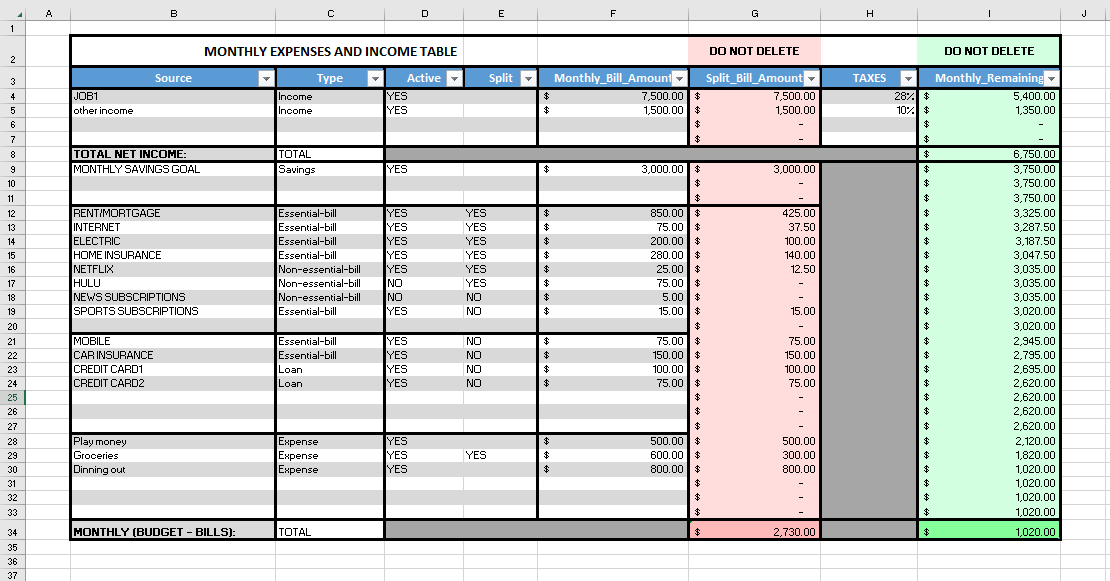
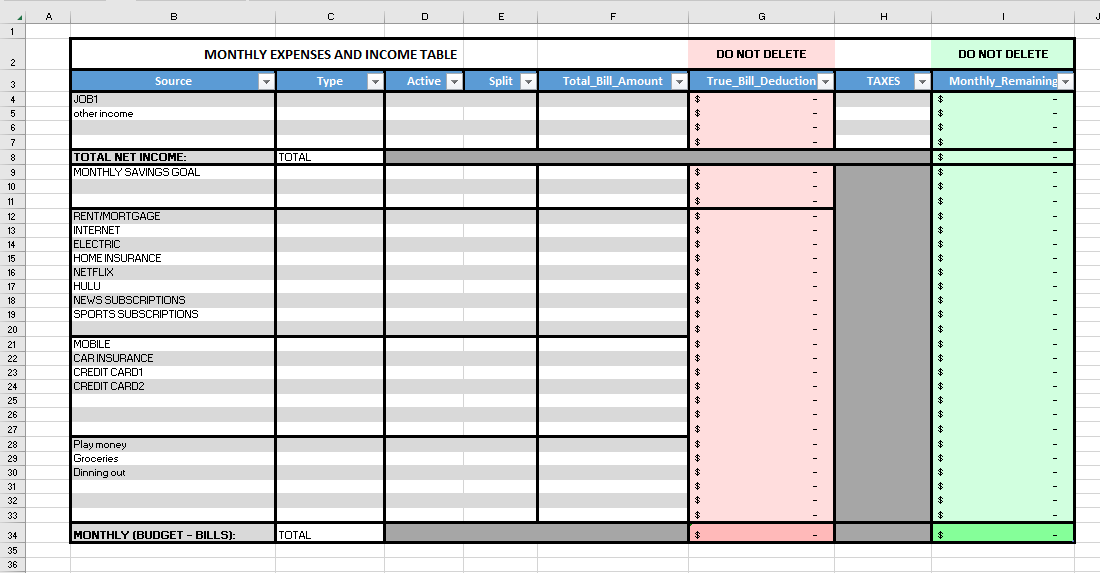
Updated chart and readme

diff --git a/readme.md b/readme.md
@@ -2,10 +2,21 @@
 
 # Expenses Excel sheet
 
-#### Calulates your end of month remains after taxes and expenses or bills
+## Calulates your end of month net income after taxes, expenses and bills
+-----
 
-#### Formulas used:
+### Formulas used in this excel:
 
-![chart1](https://user-images.githubusercontent.com/52839097/217922599-4f32d4c3-d46a-419c-916a-64d728d2057a.PNG)
+- Sum of all Bill and Incomes.
+    - =SUM(G12:G33)
+    - =SUM(I4:I7)
+- Tax deduction of varying percentage.
+    - =(G7-(H4*G4))
+- Difference from Income and True bill amount.
+    - =SUM(I8-[@[True_Bill_Deduction]])
+- Nested "IF" condition. Determines deduction amount from income if optional "active" or "Split" values selected.
+    - =IF(D9="YES",IF(E9="YES",F9/2,F9), F9-F9)
+
+<br>
 
 
